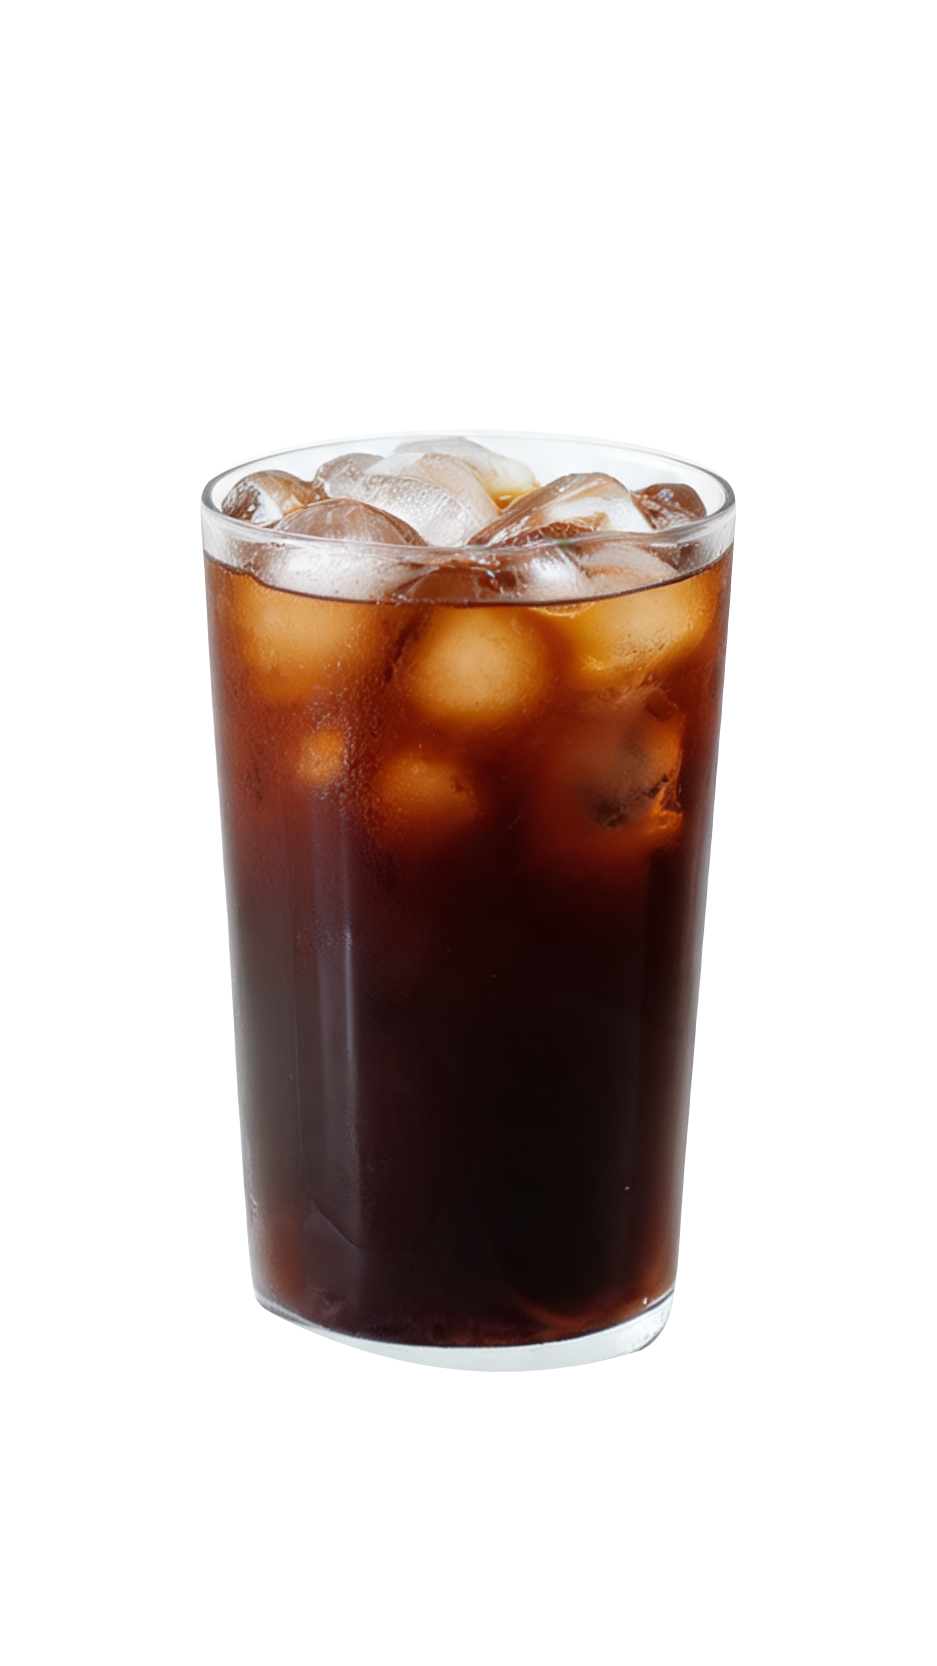
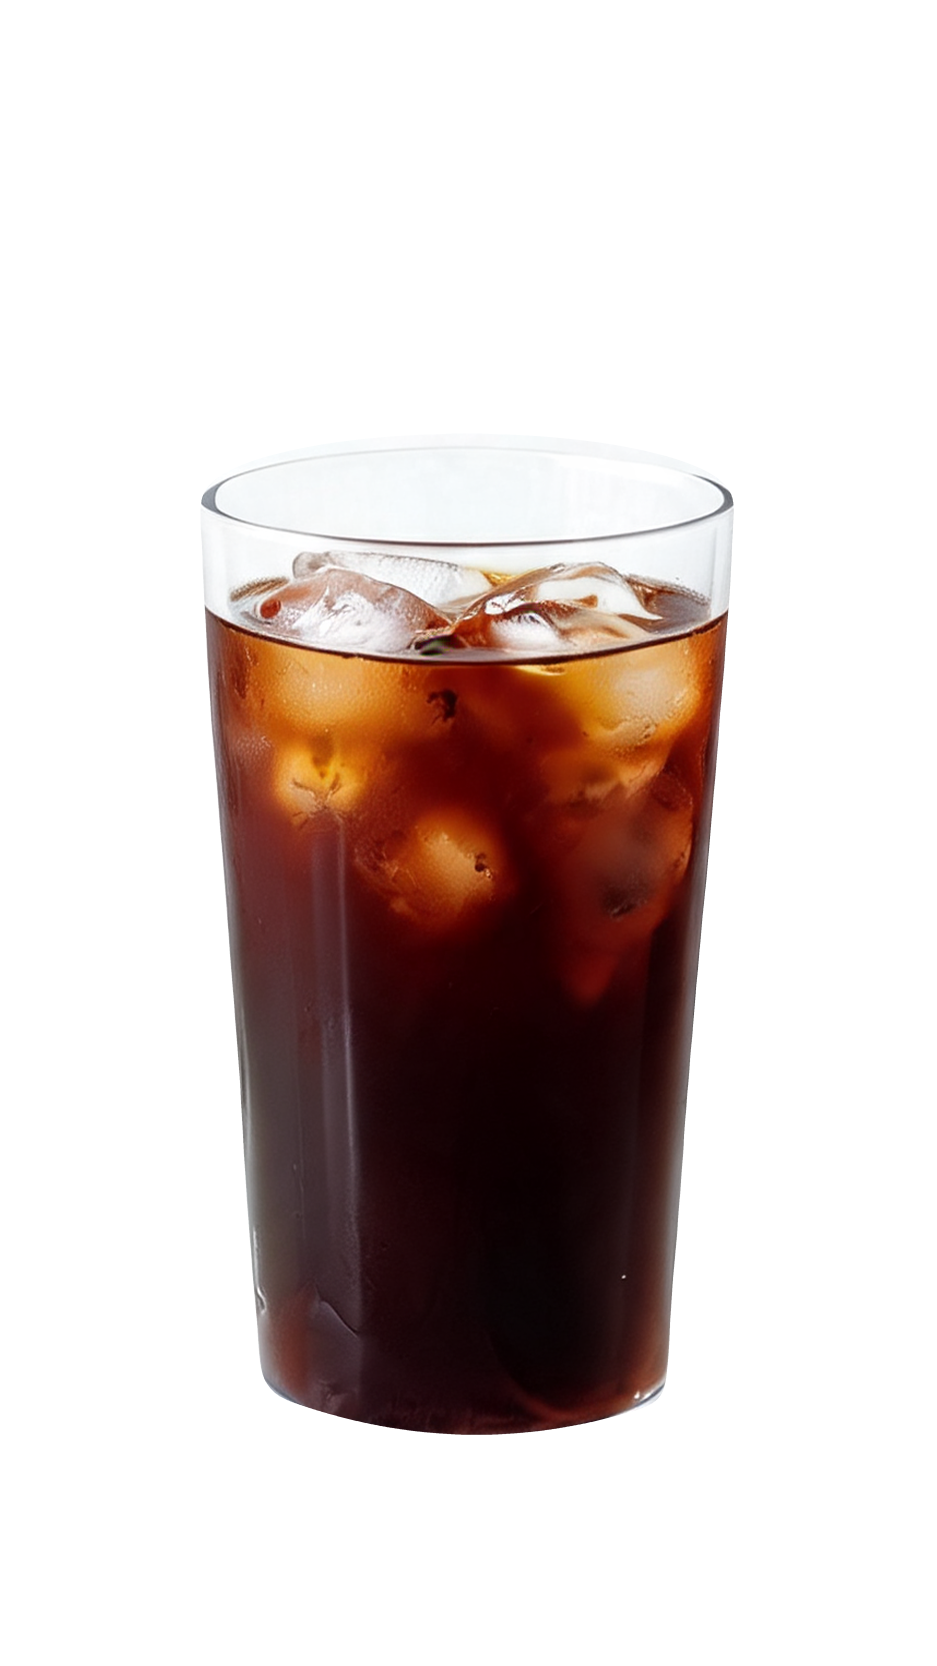
cups: regenerate the 100% photos to match the other steps; idle loop off
The old 100% shots were framed differently (glass ~8% shorter, base
higher), so the step 80 -> 100 jumped and the cut-outs looked wrong.
- americano 100%: Seedream 5.0 lite edit of the 80% original (fill to
  the brim), aligned back onto the 80% glass by best silhouette overlap
  (scale 0.935) plus a 4% vertical stretch from the base to match the
  rim height (regen/align_100.py); 9x16 via the step-80 transform
- latte 100%: edit of the aligned americano (drink only -> latte)
- both re-cut with refine_cutouts.py
- idle loop disabled (CupIdleLoop.isEnabled = false): its clip was made
  from the old 100% photo; remake it before turning it back on
Old files are kept under design/assets/cups/regen/.

Changed region(s): [[0.2166, 0.2497, 0.8047, 0.6867], [0.2476, 0.6242, 0.7428, 0.8739]]

diff --git a/SugarCap/Sources/Today/CupIdleOverlay.swift b/SugarCap/Sources/Today/CupIdleOverlay.swift
@@ -30,6 +30,9 @@ struct CupIdleOverlay: View {
 
 private struct CupIdleLoop {
     static let canvasWidth: CGFloat = 937
+    /// 꺼 둠(2026-09-28 대표님): 100% 잔 사진을 다시 뽑는 중이라 지금 영상(옛 사진 기준)이 새 사진과 안 맞는다.
+    /// 새 사진으로 대기 루프 영상을 다시 만든 뒤 true로 켠다.
+    static let isEnabled = false
 
     let videoURL: URL
     let maskAsset: String
@@ -45,6 +48,7 @@ private struct CupIdleLoop {
     init?(assetName: String) {
         let base = "\(assetName)-idle"
         guard
+            Self.isEnabled,
             let video = Self.resource(base, "mp4"),
             let json = Self.resource(base, "json"),
             let data = try? Data(contentsOf: json),

diff --git a/design/assets/cups/regen/align_100.py b/design/assets/cups/regen/align_100.py
@@ -1,0 +1,95 @@
+# 다시 뽑은 100% 사진(80% 원본을 입력으로 편집)을 80% 원본의 잔 위치·크기에 맞춘다.
+# 편집 모델이 잔을 약 7% 키우고 조금 올려서, 누끼로 잔 테두리 폭·가운데·바닥을 재 맞춘다.
+# 그다음 80%와 같은 변환(transforms.json "80")으로 9x16을 만든다.
+import json
+import os
+import sys
+
+import numpy as np
+from PIL import Image
+from rembg import new_session, remove
+
+HERE = os.path.dirname(os.path.abspath(__file__))
+CUPS = os.path.dirname(HERE)
+
+
+def glass_mask(img: Image.Image, session) -> np.ndarray:
+    return (np.array(remove(img, session=session))[:, :, 3] > 128).astype(np.uint8)
+
+
+def best_fit(ref: np.ndarray, new: np.ndarray) -> tuple[float, int, int]:
+    """아래쪽 잔 모양(참조 잔 높이의 아래 65%)이 가장 많이 겹치는 배율·이동을 찾는다(1/4 크기에서 탐색)."""
+    import cv2
+    q = 4
+    r = cv2.resize(ref, (ref.shape[1] // q, ref.shape[0] // q), interpolation=cv2.INTER_NEAREST).astype(bool)
+    n = cv2.resize(new, (new.shape[1] // q, new.shape[0] // q), interpolation=cv2.INTER_NEAREST)
+    ys, _ = np.nonzero(r)
+    cut = int(ys.min() + (ys.max() - ys.min()) * 0.35)
+    r[:cut] = False
+    ry, rx = np.nonzero(r)
+    best = (0.0, 1.0, 0, 0)
+    for scale in np.arange(0.84, 1.06, 0.005):
+        m = cv2.resize(n, (round(n.shape[1] * scale), round(n.shape[0] * scale)), interpolation=cv2.INTER_NEAREST).astype(bool)
+        my, mx = np.nonzero(m)
+        base_dx = int(round(rx.mean() - mx.mean()))
+        base_dy = int(round(ry.max() - my.max()))
+        for ddx in range(-6, 7):
+            for ddy in range(-6, 7):
+                dx, dy = base_dx + ddx, base_dy + ddy
+                canvas = np.zeros_like(r)
+                y0, x0 = max(0, dy), max(0, dx)
+                y1, x1 = min(r.shape[0], dy + m.shape[0]), min(r.shape[1], dx + m.shape[1])
+                canvas[y0:y1, x0:x1] = m[y0 - dy:y1 - dy, x0 - dx:x1 - dx]
+                canvas[:cut] = False
+                iou = (canvas & r).sum() / max(1, (canvas | r).sum())
+                if iou > best[0]:
+                    best = (iou, float(scale), dx * q, dy * q)
+    print(f"iou {best[0]:.4f} scale {best[1]:.3f} dx {best[2]} dy {best[3]}")
+    return best[1], best[2], best[3]
+
+
+def rim_top(img: Image.Image, x0: int, x1: int) -> float:
+    """잔 뒤쪽 테두리 윗선의 높이(벽보다 뚜렷이 어두운 선이 처음 나오는 줄, 가운데 여러 열의 중간값)."""
+    lum = np.array(img.convert("L"), float)
+    ys, _ = np.nonzero(lum < 0)  # 자리 채움
+    wall = float(np.median(lum[200:400, x0:x1]))
+    tops = []
+    for x in range(x0, x1, 20):
+        dark = lum[300:1400, x] < wall - 25
+        edge = np.nonzero(dark[:-1] & dark[1:])[0]
+        if edge.size:
+            tops.append(300 + edge.min())
+    return float(np.median(tops))
+
+
+def main() -> None:
+    new_path, set_id = sys.argv[1], sys.argv[2]
+    session = new_session("u2net")
+    ref = Image.open(os.path.join(CUPS, "iced-americano", "original", "80.png")).convert("RGB")
+    new = Image.open(new_path).convert("RGB").resize(ref.size)
+    scale, dx, dy = best_fit(glass_mask(ref, session), glass_mask(new, session))
+    scaled = new.resize((round(new.width * scale), round(new.height * scale)), Image.LANCZOS)
+    # 가장자리가 비지 않게 새 사진을 먼저 깔고 맞춘 사진을 얹는다
+    canvas = new.copy()
+    canvas.paste(scaled, (dx, dy))
+    # 편집 모델이 잔 비율을 조금 짧게 바꿨다. 바닥은 맞췄으니 바닥 기준으로 세로만 늘려 테두리 높이를 맞춘다.
+    ref_mask = glass_mask(ref, session)
+    ys, xs = np.nonzero(ref_mask)
+    bottom = float(ys.max())
+    cx0, cx1 = int(xs.mean() - 90), int(xs.mean() + 90)
+    ref_rim, new_rim = rim_top(ref, cx0, cx1), rim_top(canvas, cx0, cx1)
+    stretch = (bottom - ref_rim) / (bottom - new_rim)
+    print(f"rim ref {ref_rim:.0f} new {new_rim:.0f} bottom {bottom:.0f} -> vertical stretch {stretch:.4f}")
+    tall = canvas.resize((canvas.width, round(canvas.height * stretch)), Image.LANCZOS)
+    top = round(bottom * stretch - bottom)
+    canvas = tall.crop((0, top, canvas.width, top + canvas.height))
+    out_original = os.path.join(CUPS, set_id, "original", "100.png")
+    canvas.save(out_original)
+    t = json.load(open(os.path.join(CUPS, "transforms.json")))["80"]
+    big = canvas.resize((round(2048 * t["scale"]), round(2048 * t["scale"])), Image.LANCZOS)
+    big.crop((t["dx"], t["dy"], t["dx"] + 937, t["dy"] + 1666)).save(os.path.join(CUPS, set_id, "9x16", "100.png"))
+    print("saved", out_original)
+
+
+if __name__ == "__main__":
+    main()
